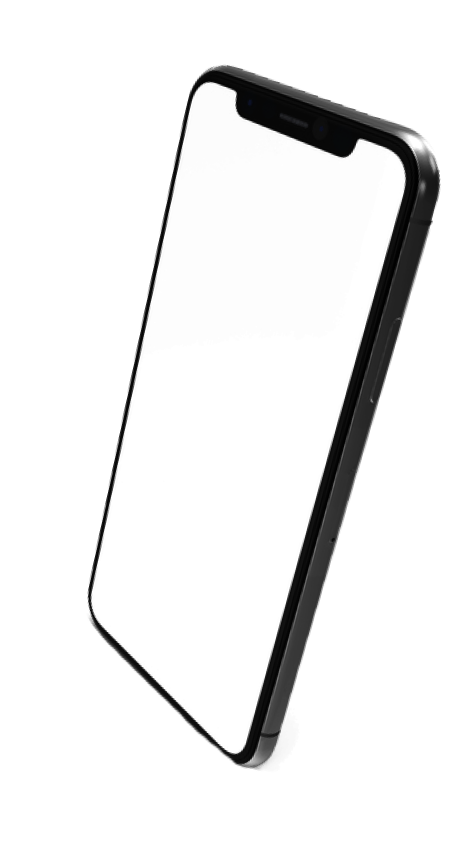
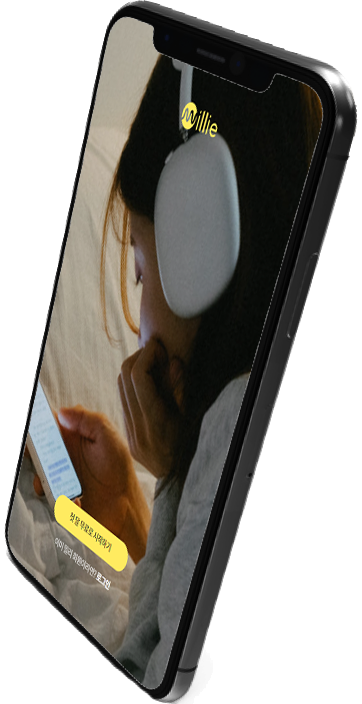
개인제작 랜딩페이지

diff --git a/landing_project2/style/index.css b/landing_project2/style/index.css
@@ -9,7 +9,8 @@ main #one {
 }
 .logo,
 .main_text,
-.add_text {
+.add_text,
+.start_btn {
     width: 1200px;
     margin: 0 auto;
     color: #fff;
@@ -40,11 +41,16 @@ main #one .main_text h1:after {
 main #one .add_text {}
 main #one .add_text p {
     font-size: 2rem;
+    line-height: 150%;
 }
 main #one .add_text p span {
     color: #ffeb60;
 }
-main #one .add_text button {
+main #one .start_btn {
+    text-align: center;
+    margin-top: 162px;
+}
+main #one .start_btn button {
     width: 333px; height: 57px;
     border-radius: 50px;
     background-color: #242424;
@@ -52,6 +58,200 @@ main #one .add_text button {
     border: 0;
     font-size: 1.5rem;
 }
-main #one .add_text button span {
+main #one .start_btn button span {
     font-weight: 700;
 }
+main #two {
+    background-image: url(../image/bg2.jpg);
+    width: 1920px; height: 697px;
+    margin: 0 auto;
+}
+.title,
+.question {
+    width: 1200px;
+    margin: 0 auto;
+    color: #fff;
+}
+main #two .title {
+    text-align: center;
+}
+main #two .title img {
+    margin: 57px 0;
+}
+main #two .title p {
+    font-size: 2rem;
+    font-weight: 200;
+    margin-bottom: 35px;
+}
+main #two .question {
+    text-align: center;
+}
+main #two .question p {
+    font-size: 1.25rem;
+    text-decoration: underline 1px;
+}
+main #two .question span {
+    font-weight: 700;
+}
+main #two .question em {
+    color: #ffeb60;
+}
+main #two .question form {
+    margin-top: 60px;
+}
+main #two .question form fieldset {
+    display: flex;
+    justify-content: center;
+}
+main #two .question form fieldset ul {}
+main #two .question form fieldset ul li {
+    text-align: left;
+    padding-bottom: 20px;
+}
+main #two .question form fieldset ul li input {
+    display: none;
+}
+main #two .question form fieldset ul li input:checked+label {
+    background-image: url(../image/check.png);
+}
+main #two .question form fieldset ul li label {
+    font-size: 1.25rem;
+    background-image: url(../image/uncheck.png);
+    background-repeat: no-repeat;
+    padding-left: 50px;
+    padding-bottom: 10px;
+    display: flex;
+}
+main #two .question form .answer button {
+    width: 372px;
+    height: 57px;
+    margin-top: 54px;
+    border-radius: 50px;
+    background-color: #ffeb60;
+    color: #242424;
+    font-size: 1.5rem;
+}
+main #two .question form .answer span {
+    font-weight: 700;
+}
+main #three {
+    background-image: url(../image/bg3.jpg);
+    width: 1920px; height: 877px;
+    margin: 0 auto;
+    display: flex;
+}
+.three_left,
+.three_right {
+    margin: 0 auto;
+    color: #242424;
+}
+main #three .three_left {
+    margin-left: 360px;
+    margin-top: 195px;
+}
+main #three .three_right {
+    padding-right: 210px;
+    margin-top: 295px;
+}
+main #three .three_right h2 {
+    font-size: 4rem;
+    font-weight: 700;
+}
+main #three .three_right span {
+    color: #9F4EEF;
+    font-weight: 700;
+}
+main #three .three_right p {
+    margin-top: 30px;
+    font-size: 1.5rem;
+    line-height: 150%;
+}
+main #four {
+    background-image: url(../image/bg4.jpg);
+    width: 1920px; height: 838px;
+    margin: 0 auto;
+}
+.main_text_4,
+.merit {
+    width: 1200px;
+    margin: 0 auto;
+    text-align: center;
+}
+main #four .main_text_4 {
+    padding-top: 169px;
+}
+main #four .main_text_4 h2 {
+    font-size: 4rem;
+    font-weight: 700;
+    margin-bottom: 52px;
+}
+main #four .main_text_4 p {
+    line-height: 150%;
+    margin-bottom: 72px;
+    font-size: 1.25rem;
+}
+main #four .merit {}
+main #four .merit ul {
+    display: flex;
+    flex-flow: column;
+    align-items: center;
+    text-align: left;
+}
+main #four .merit ul li {
+    margin-bottom: 40px;
+    background-color: #9F4EEF;
+    color: #fff;
+    border-radius: 50px;
+    width: 464px;
+    height: 45px;
+    display: flex;
+    align-items: center;
+}
+main #four .merit ul li img {
+    padding-right: 17px;
+    padding-left: 17px;
+}
+main #five {
+    background-image: url(../image/bg5.jpg);
+    width: 1920px; height: 1129px;
+    margin: 0 auto;
+}
+.main_text_5,
+.number_icon,
+.audio {
+    width: 1200px;
+    margin: 0 auto;
+}
+main #five .main_text_5 {}
+main #five .main_text_5 h2 {
+    font-size: 4rem;
+    font-weight: 700;
+    padding-top: 230px;
+    padding-left: 256px;
+    text-decoration: underline 2px;
+}
+main #five .main_text_5 .add {
+    margin-top: 42px;
+    padding-left: 85px;
+    font-size: 2rem;
+}
+main #five .main_text_5 .add_2 {
+    padding-left: 94px;
+    font-size: 1.5rem;
+    margin-top: 32px;
+    font-weight: 300;
+}
+main #five .number_icon {
+    margin-top: 42px;
+    margin-right: 102px;
+}
+main #five .number_icon a {
+    padding-left: 41px;
+    background-color: #ffeb60;
+    border-radius: 50px;
+}
+main #five .audio {
+    display: flex;
+    justify-content: right;
+}
+main #five .audio img {}

diff --git a/landing_project2/index.html b/landing_project2/index.html
@@ -22,9 +22,84 @@
             </div>
             <div class="add_text">
                 <p>문단과 문장이 만나는 곳<br><span>밀리의 서재</span>에서 당신만의 서적 여행을 시작하세요.</p>
-                <button type="button" name="free_membership" id="first_membership"><span>첫 달 무료</span>로 독서 시작하기</button>
+            </div>
+            <div class="start_btn">
+                <button type="button" id="first_membership"><span>첫 달 무료</span>로 독서 시작하기</button>
             </div>
         </div>
+        <div id="two">
+            <div class="title">
+                <img src="./image/point.png" alt="">
+                <p>그때 나는 알았어. 우리는 그곳에서 괴로울 거야.<br>하지만 그보다 많이 행복할 거야.</p>
+            </div>
+            <div class="question">
+                <p><span>이달의 작가 김초엽</span>의 <em>'우리가 빛의 속도로 갈 수 있다면'</em>중, 해당 구절이 나오는 에피소드는?</p>
+                <form action="#" method="get" id="quiz">
+                    <fieldset class="quiz_g">
+                        <legend class="skip"></legend>
+                        <ul>
+                            <li>
+                                <input type="radio" name="ep" id="ep_1">
+                                <label for="ep_1">순례자들은 왜 돌아오지 않는가</label>
+                            </li>
+                            <li>
+                                <input type="radio" name="ep" id="ep_2">
+                                <label for="ep_2">스펙트럼</label>
+                            </li>
+                            <li>
+                                <input type="radio" name="ep" id="ep_3">
+                                <label for="ep_3">감정의 물성</label>
+                            </li>
+                            <li>
+                                <input type="radio" name="ep" id="ep_4">
+                                <label for="ep_4">나의 우주 영웅에 관하여</label>
+                            </li>
+                        </ul>
+                    </fieldset>
+                    <fieldset class="answer">
+                        <button type="button" id="answer_b">정답 확인하고 <span>이벤트 참여하기</span></button>
+                    </fieldset>
+                </form>
+            </div>
+        </div>
+        <div id="three">
+            <div class="three_left">
+                <iframe width="415" height="415" src="https://www.youtube.com/embed/c-XG8k_w1LM" title="내돈내산! 밀리 구독 후기" frameborder="0" allow="accelerometer; autoplay; clipboard-write; encrypted-media; gyroscope; picture-in-picture; web-share" referrerpolicy="strict-origin-when-cross-origin" allowfullscreen></iframe>
+            </div>
+            <div class="three_right">
+                <h2>내돈내산<br><span>밀리 구독 이야기</span></h2>
+                <p>다양한 연령층이 말해주는<br>밀리의 서재를 구독해야 하는 이유</p>
+            </div>
+        </div>
+        <div id="four">
+            <div class="main_text_4">
+                <h2>전국민이 선택한 독서 플랫폼</h2>
+                <p>전자책과 오디오책 모두 1위 밀리의 서재<br>밀리의 서재만의 특별함을 경험해보세요</p>
+            </div>
+            <div class="merit">
+                <ul>
+                    <li><img src="./image/book_icon.png">국내 도서 앱 중 <span>도서 보유량 단연코 1위</span></li>
+                    <li><img src="./image/headphones_icon.png"><span>오디오북 품질 만족도 1위</span></li>
+                    <li><img src="./image/person_icon.png"><span>710만 회원</span>과 함께하는 독서</li>
+                    <li><img src="./image/mobile_icon.png">독서를 위한 <span>모든 기능이 완비</span> 된 뷰어</li>
+                </ul>
+            </div>
+        </div>
+        <div id="five">
+            <div class="main_text_5">
+                <h2>오디오북</h2>
+                <p class="add">세상에서 가장 교양있는 수면제</p>
+                <p class="add_2">하루의 시작과 마무리를 오디오북과 함께<br>지하철에서도, 잠들기 전에도 독서하세요</p>
+            </div>
+            <div class="number_icon">
+                <a href="#">1</a>
+                <a href="#">2</a>
+                <a href="#">3</a>
+                <a href="#">4</a>
+            </div>
+            <div class="audio">
+                <img src="./image/book.png" alt="">
+            </div>
         </div>
     </main>
 </body>
